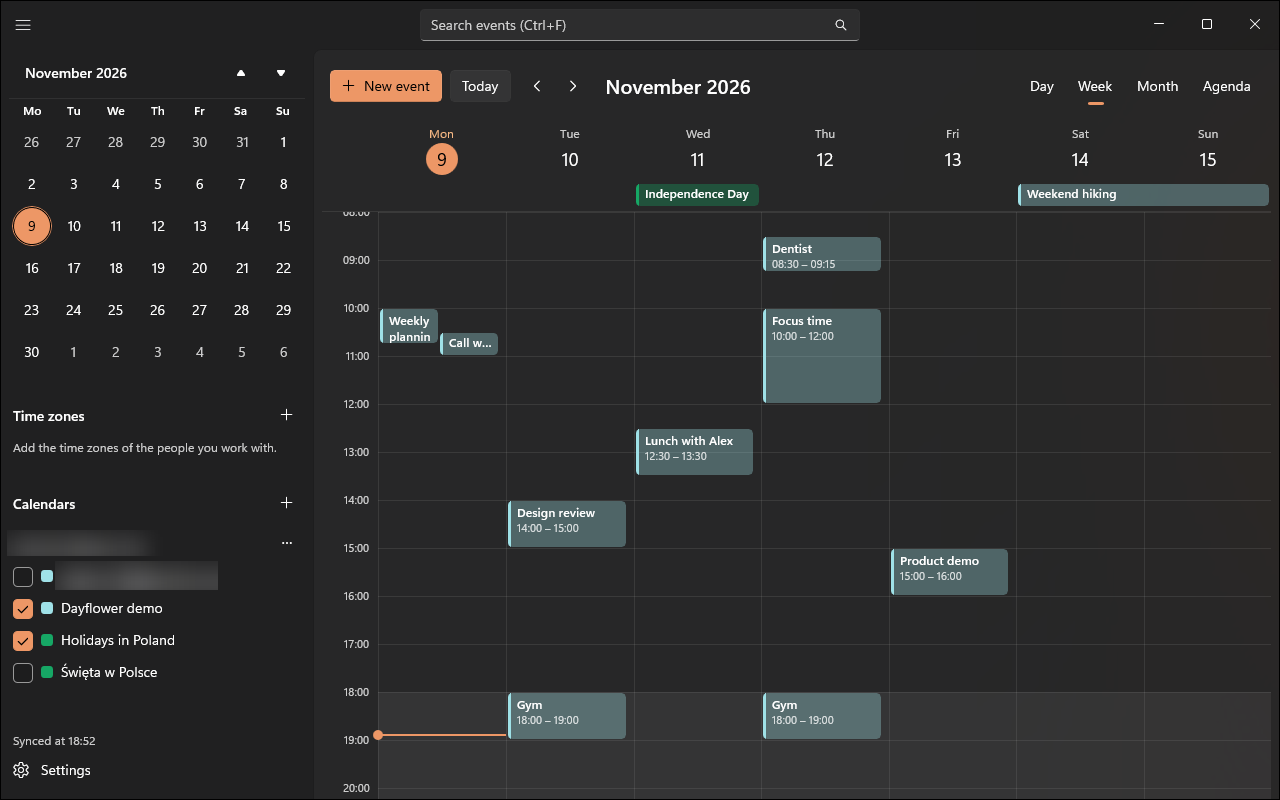
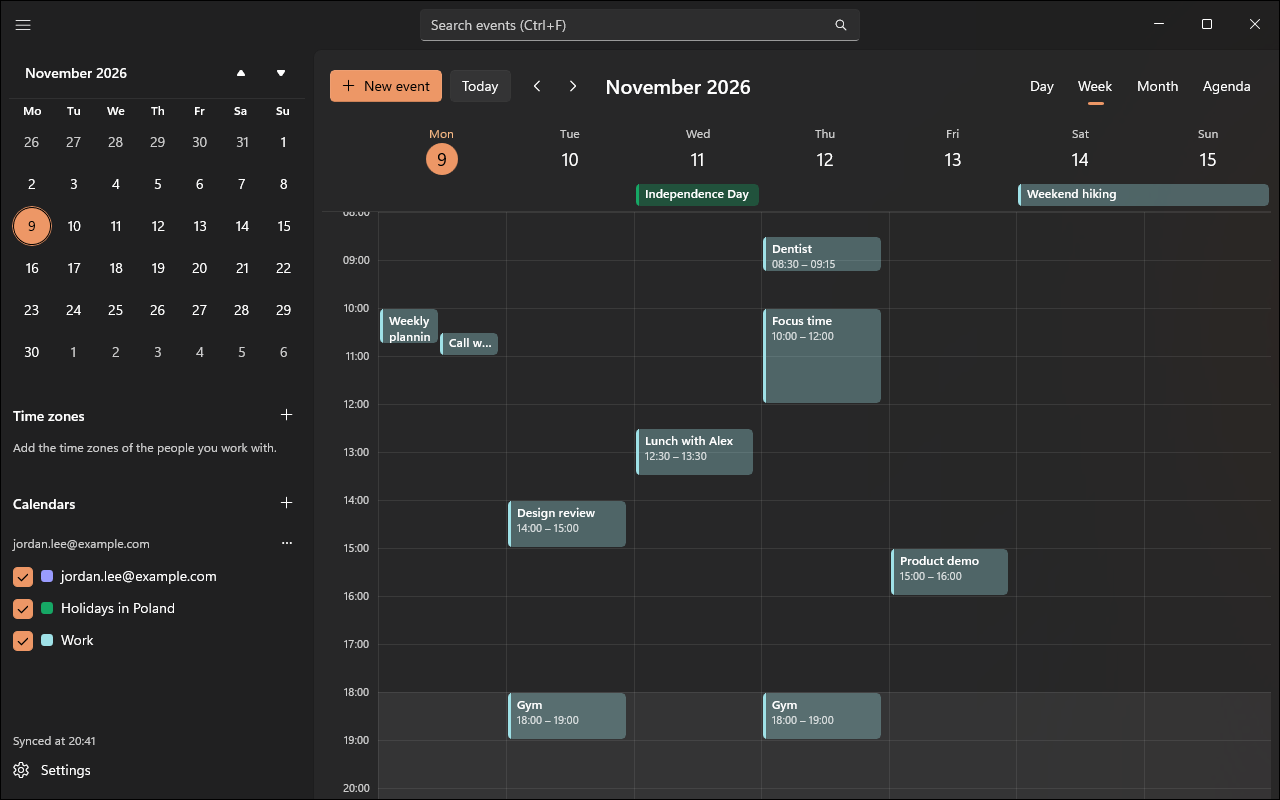
Use a made-up account in the homepage screenshots
The account and calendar names are now invented, so nothing needs blurring.

Changed region(s): [[0.0, 0.6562, 0.1875, 0.8438], [0.2812, 0.9062, 0.3125, 0.9375]]

diff --git a/docs/PLAN.md b/docs/PLAN.md
@@ -398,7 +398,7 @@ Steps 1 and 6 depend on Google and SignPath, so they start first; the rest is co
    of its own on 2026-11-09, so the retry is from 2026-11-10, and failing that, a domain of its own. The demo video
    was recorded and linked under Data access on 2026-11-09. Status, the scope reason and the video's shot list:
    [google-verification.md](google-verification.md). The homepage shows the week view with made-up events, in light or
-   dark to match the visitor's setting (2026-11-09; the account's address blurred).
+   dark to match the visitor's setting (2026-11-09; the account shown is made up).
 2. **Unpackaged build, checked first.** Dayflower built as a self-contained app (the .NET runtime and Windows App SDK
    included, nothing to install first), then a check of everything that behaves differently without a package:
    - notifications show Dayflower's name and icon, and their buttons (Join, Snooze, Accept / Maybe / Decline) reach
